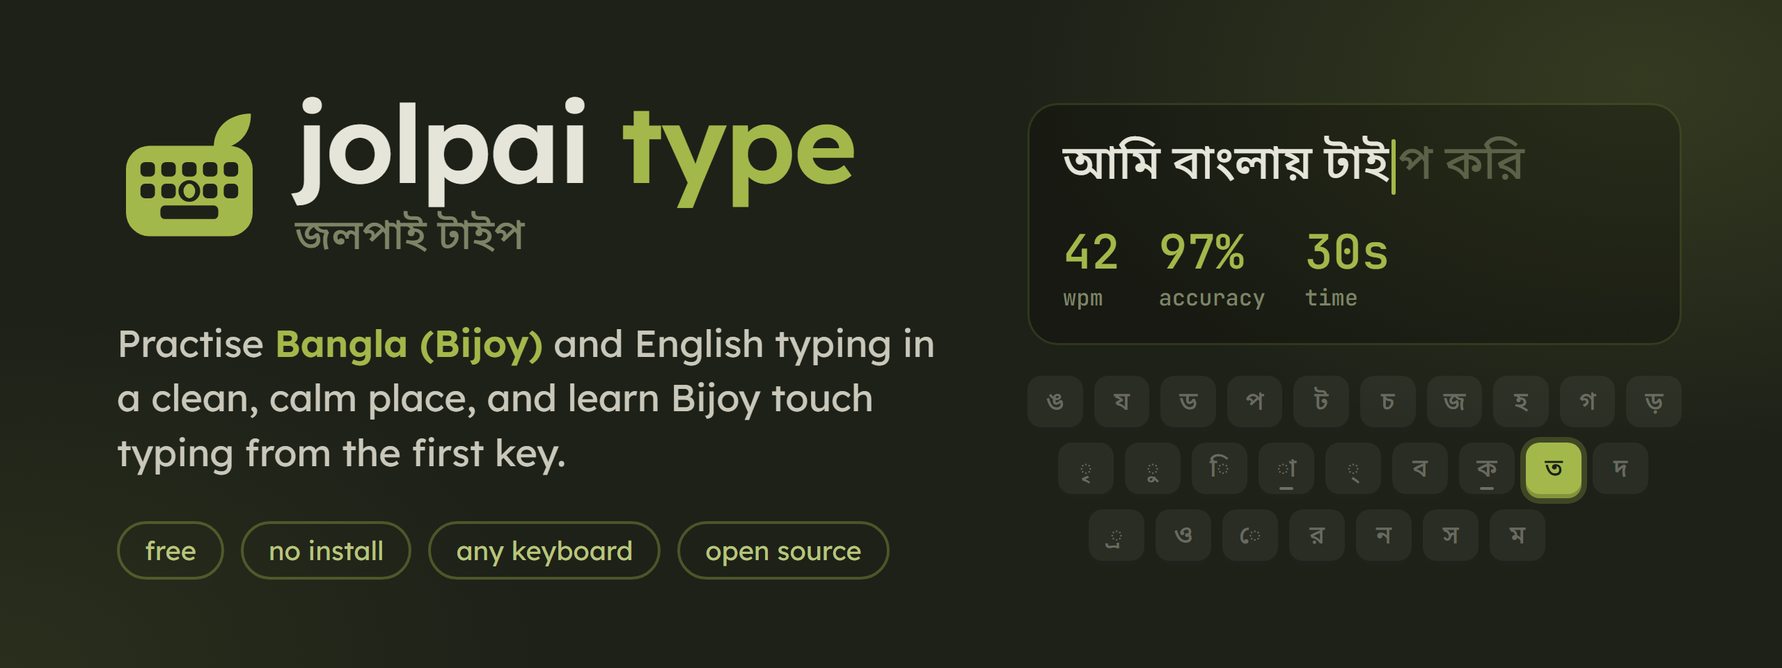
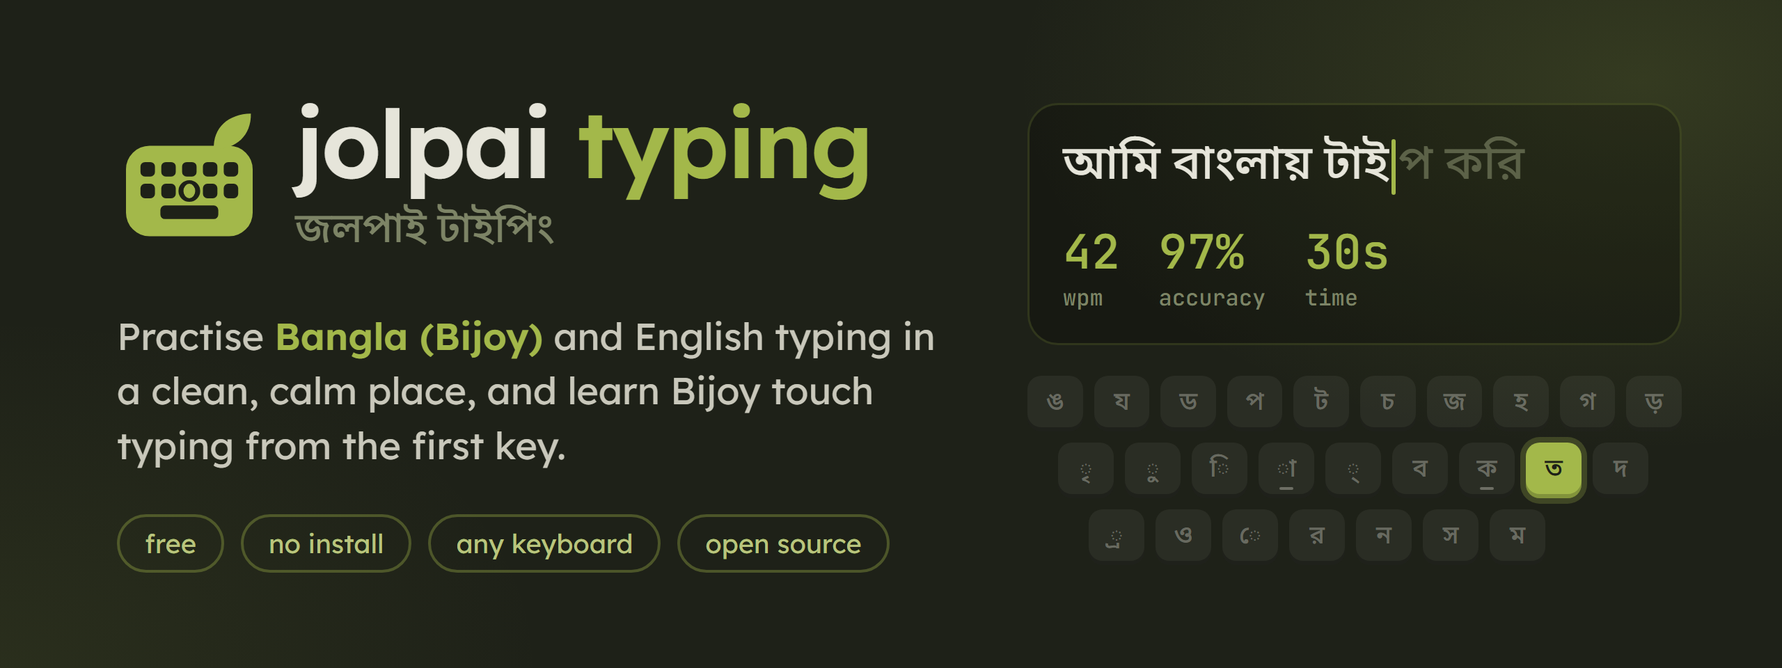
Rename to Jolpai Typing (জলপাই টাইপিং), now at /jolpai-typing/
The name changes everywhere it is shown: header wordmark, page title
and meta tags, About page, share card, README, banner and social
preview image. Links and canonical URLs move to
yeamin-talukder.github.io/jolpai-typing/ and the jolpai-typing repo.
The old name stays as an alternate name in the structured data.

Browser storage keys and the Firebase project id are unchanged, so
saved results and sign-in keep working. A smaller wordmark on narrow
phones keeps the header menu on screen.

diff --git a/index.html b/index.html
@@ -3,34 +3,34 @@
   <head>
     <meta charset="UTF-8" />
     <meta name="viewport" content="width=device-width, initial-scale=1.0" />
-    <title>Jolpai Type: Bangla (Bijoy) Typing Practice and Lessons | বাংলা টাইপিং</title>
+    <title>Jolpai Typing: Learn and Practise Bangla (Bijoy) Typing | বাংলা টাইপিং</title>
     <meta name="description" content="Free Bangla typing practice with the Bijoy layout on any keyboard, English typing tests, and a step-by-step course to learn Bijoy touch typing. বিজয় কি-বোর্ডে বাংলা টাইপিং শিখুন।" />
     <meta name="keywords" content="bangla typing practice, bijoy typing test, bijoy typing tutor, learn bijoy keyboard, bangla typing test, bengali typing, english typing test, বাংলা টাইপিং, বিজয় টাইপিং, বাংলা টাইপিং শিখুন" />
     <meta name="author" content="Md Yeamin Talukder" />
     <meta name="robots" content="index, follow, max-image-preview:large" />
-    <link rel="canonical" href="https://yeamin-talukder.github.io/jolpai-type/" />
+    <link rel="canonical" href="https://yeamin-talukder.github.io/jolpai-typing/" />
     <meta name="theme-color" content="#1e2118" />
     <link rel="icon" href="/favicon.svg" type="image/svg+xml" />
     <link rel="manifest" href="/site.webmanifest" />
 
     <!-- shared links: Open Graph (Facebook, WhatsApp, LinkedIn, Discord) and X / Twitter -->
     <meta property="og:type" content="website" />
-    <meta property="og:site_name" content="Jolpai Type" />
-    <meta property="og:title" content="Jolpai Type: practise Bangla (Bijoy) typing and learn Bijoy" />
+    <meta property="og:site_name" content="Jolpai Typing" />
+    <meta property="og:title" content="Jolpai Typing: practise Bangla (Bijoy) typing and learn Bijoy" />
     <meta property="og:description" content="A clean, calm place to practise Bangla (Bijoy) and English typing on any keyboard, with a step-by-step course to learn Bijoy touch typing. Free. বাংলা টাইপিং শিখুন।" />
-    <meta property="og:url" content="https://yeamin-talukder.github.io/jolpai-type/" />
-    <meta property="og:image" content="https://yeamin-talukder.github.io/jolpai-type/og-image.png" />
+    <meta property="og:url" content="https://yeamin-talukder.github.io/jolpai-typing/" />
+    <meta property="og:image" content="https://yeamin-talukder.github.io/jolpai-typing/og-image.png" />
     <meta property="og:image:type" content="image/png" />
     <meta property="og:image:width" content="1200" />
     <meta property="og:image:height" content="630" />
-    <meta property="og:image:alt" content="Jolpai Type: practise Bangla (Bijoy) and English typing, and learn Bijoy touch typing." />
+    <meta property="og:image:alt" content="Jolpai Typing: practise Bangla (Bijoy) and English typing, and learn Bijoy touch typing." />
     <meta property="og:locale" content="en_US" />
     <meta property="og:locale:alternate" content="bn_BD" />
     <meta name="twitter:card" content="summary_large_image" />
-    <meta name="twitter:title" content="Jolpai Type: practise Bangla (Bijoy) typing and learn Bijoy" />
+    <meta name="twitter:title" content="Jolpai Typing: practise Bangla (Bijoy) typing and learn Bijoy" />
     <meta name="twitter:description" content="Practise Bangla (Bijoy) and English typing on any keyboard, and learn Bijoy touch typing step by step. Free." />
-    <meta name="twitter:image" content="https://yeamin-talukder.github.io/jolpai-type/og-image.png" />
-    <meta name="twitter:image:alt" content="Jolpai Type: practise Bangla (Bijoy) and English typing, and learn Bijoy touch typing." />
+    <meta name="twitter:image" content="https://yeamin-talukder.github.io/jolpai-typing/og-image.png" />
+    <meta name="twitter:image:alt" content="Jolpai Typing: practise Bangla (Bijoy) and English typing, and learn Bijoy touch typing." />
 
     <script type="application/ld+json">
       {
@@ -38,19 +38,19 @@
         "@graph": [
           {
             "@type": "WebSite",
-            "@id": "https://yeamin-talukder.github.io/jolpai-type/#website",
-            "url": "https://yeamin-talukder.github.io/jolpai-type/",
-            "name": "Jolpai Type",
-            "alternateName": ["জলপাই টাইপ", "Jolpai Type Bangla typing"],
+            "@id": "https://yeamin-talukder.github.io/jolpai-typing/#website",
+            "url": "https://yeamin-talukder.github.io/jolpai-typing/",
+            "name": "Jolpai Typing",
+            "alternateName": ["জলপাই টাইপিং", "Jolpai Type", "জলপাই টাইপ"],
             "inLanguage": ["en", "bn"],
             "publisher": { "@id": "https://github.com/Yeamin-Talukder#person" }
           },
           {
             "@type": "WebApplication",
-            "@id": "https://yeamin-talukder.github.io/jolpai-type/#app",
-            "name": "Jolpai Type",
-            "alternateName": "জলপাই টাইপ",
-            "url": "https://yeamin-talukder.github.io/jolpai-type/",
+            "@id": "https://yeamin-talukder.github.io/jolpai-typing/#app",
+            "name": "Jolpai Typing",
+            "alternateName": ["জলপাই টাইপিং", "Jolpai Type"],
+            "url": "https://yeamin-talukder.github.io/jolpai-typing/",
             "description": "Free Bangla (Bijoy) and English typing practice in the browser, with a step-by-step course to learn Bijoy touch typing. Bijoy keys are converted to Bangla Unicode by the site itself, so no Bijoy software is needed. বিজয় কি-বোর্ডে বাংলা টাইপিং অনুশীলন করুন এবং ধাপে ধাপে বিজয় টাচ টাইপিং শিখুন।",
             "applicationCategory": "EducationalApplication",
             "applicationSubCategory": "Typing tutor",
@@ -59,8 +59,8 @@
             "inLanguage": ["bn", "en"],
             "isAccessibleForFree": true,
             "offers": { "@type": "Offer", "price": "0", "priceCurrency": "USD" },
-            "image": "https://yeamin-talukder.github.io/jolpai-type/og-image.png",
-            "screenshot": "https://yeamin-talukder.github.io/jolpai-type/og-image.png",
+            "image": "https://yeamin-talukder.github.io/jolpai-typing/og-image.png",
+            "screenshot": "https://yeamin-talukder.github.io/jolpai-typing/og-image.png",
             "featureList": [
               "Bangla typing practice with the Bijoy layout on any keyboard",
               "English typing test",
@@ -72,7 +72,7 @@
             ],
             "keywords": "bangla typing practice, bijoy typing test, learn bijoy keyboard, বাংলা টাইপিং, বিজয় টাইপিং",
             "author": { "@id": "https://github.com/Yeamin-Talukder#person" },
-            "isPartOf": { "@id": "https://yeamin-talukder.github.io/jolpai-type/#website" }
+            "isPartOf": { "@id": "https://yeamin-talukder.github.io/jolpai-typing/#website" }
           },
           {
             "@type": "Person",
@@ -95,9 +95,9 @@
   <body>
     <div id="app">
       <header class="top">
-        <a class="brand" href="./" aria-label="Jolpai Type home">
+        <a class="brand" href="./" aria-label="Jolpai Typing home">
           <svg class="logo" viewBox="0 0 32 32" fill="currentColor" aria-hidden="true"><path class="lg-board" fill-rule="evenodd" d="M7.2 9H24.8A5.2 5.2 0 0 1 30 14.2V23.8A5.2 5.2 0 0 1 24.8 29H7.2A5.2 5.2 0 0 1 2 23.8V14.2A5.2 5.2 0 0 1 7.2 9ZM6.2 12.6H7.4A1 1 0 0 1 8.4 13.6V14.8A1 1 0 0 1 7.4 15.8H6.2A1 1 0 0 1 5.2 14.8V13.6A1 1 0 0 1 6.2 12.6ZM10.8 12.6H12A1 1 0 0 1 13 13.6V14.8A1 1 0 0 1 12 15.8H10.8A1 1 0 0 1 9.8 14.8V13.6A1 1 0 0 1 10.8 12.6ZM15.4 12.6H16.6A1 1 0 0 1 17.6 13.6V14.8A1 1 0 0 1 16.6 15.8H15.4A1 1 0 0 1 14.4 14.8V13.6A1 1 0 0 1 15.4 12.6ZM20 12.6H21.2A1 1 0 0 1 22.2 13.6V14.8A1 1 0 0 1 21.2 15.8H20A1 1 0 0 1 19 14.8V13.6A1 1 0 0 1 20 12.6ZM24.6 12.6H25.8A1 1 0 0 1 26.8 13.6V14.8A1 1 0 0 1 25.8 15.8H24.6A1 1 0 0 1 23.6 14.8V13.6A1 1 0 0 1 24.6 12.6ZM6.2 17.4H7.4A1 1 0 0 1 8.4 18.4V19.6A1 1 0 0 1 7.4 20.6H6.2A1 1 0 0 1 5.2 19.6V18.4A1 1 0 0 1 6.2 17.4ZM10.8 17.4H12A1 1 0 0 1 13 18.4V19.6A1 1 0 0 1 12 20.6H10.8A1 1 0 0 1 9.8 19.6V18.4A1 1 0 0 1 10.8 17.4ZM20 17.4H21.2A1 1 0 0 1 22.2 18.4V19.6A1 1 0 0 1 21.2 20.6H20A1 1 0 0 1 19 19.6V18.4A1 1 0 0 1 20 17.4ZM24.6 17.4H25.8A1 1 0 0 1 26.8 18.4V19.6A1 1 0 0 1 25.8 20.6H24.6A1 1 0 0 1 23.6 19.6V18.4A1 1 0 0 1 24.6 17.4ZM10.6 22.2H21.4A1 1 0 0 1 22.4 23.2V24.2A1 1 0 0 1 21.4 25.2H10.6A1 1 0 0 1 9.6 24.2V23.2A1 1 0 0 1 10.6 22.2ZM13.6 19A2.4 2.4 0 1 0 18.4 19A2.4 2.4 0 1 0 13.6 19Z"/><g class="lg-taps"><rect class="lg-tap" style="--k:7" x="5.7" y="13.1" width="2.2" height="2.2" rx=".6" opacity="0"/><rect class="lg-tap" style="--k:0" x="10.3" y="13.1" width="2.2" height="2.2" rx=".6" opacity="0"/><rect class="lg-tap" style="--k:9" x="14.9" y="13.1" width="2.2" height="2.2" rx=".6" opacity="0"/><rect class="lg-tap" style="--k:2" x="19.5" y="13.1" width="2.2" height="2.2" rx=".6" opacity="0"/><rect class="lg-tap" style="--k:5" x="24.1" y="13.1" width="2.2" height="2.2" rx=".6" opacity="0"/><rect class="lg-tap" style="--k:4" x="5.7" y="17.9" width="2.2" height="2.2" rx=".6" opacity="0"/><rect class="lg-tap" style="--k:6" x="10.3" y="17.9" width="2.2" height="2.2" rx=".6" opacity="0"/><rect class="lg-tap" style="--k:1" x="19.5" y="17.9" width="2.2" height="2.2" rx=".6" opacity="0"/><rect class="lg-tap" style="--k:8" x="24.1" y="17.9" width="2.2" height="2.2" rx=".6" opacity="0"/><rect class="lg-tap" style="--k:3" x="10.1" y="22.7" width="11.8" height="2" rx=".6" opacity="0"/></g><path class="lg-olive" d="M14.7 19A1.3 1.6 0 1 0 17.3 19A1.3 1.6 0 1 0 14.7 19Z"/><path class="lg-leaf" d="M21.4 9.8C21.2 5 24.6 2 29.6 1.9C29.7 6.7 26.4 9.8 21.4 9.8Z"/></svg>
-          <span class="brand-text"><span class="brand-sub">জলপাই</span>jolpai<span class="brand-type">type</span></span>
+          <span class="brand-text"><span class="brand-sub">জলপাই</span>jolpai<span class="brand-type">typing</span></span>
         </a>
         <nav class="nav" aria-label="Main">
           <div id="account" class="account" hidden></div>
@@ -133,7 +133,7 @@
             <div id="caret" class="caret"></div>
             <div id="focus-hint" class="focus-hint"><span><i data-icon="pointer"></i>click here or press any key to focus</span></div>
           </div>
-          <p id="lang-hint" class="lang-hint" hidden><i data-icon="info" data-size="14"></i>Bijoy layout: type with your keys as if Bijoy were on. Turn off Bijoy or Avro software first, Jolpai Type converts the keys itself.</p>
+          <p id="lang-hint" class="lang-hint" hidden><i data-icon="info" data-size="14"></i>Bijoy layout: type with your keys as if Bijoy were on. Turn off Bijoy or Avro software first, Jolpai Typing converts the keys itself.</p>
           <div id="keyboard" class="keyboard" aria-hidden="true"></div>
           <input id="input" class="hidden-input" autocomplete="off" autocapitalize="off" autocorrect="off" spellcheck="false" aria-label="Typing input" />
           <button id="restart" class="restart" aria-label="Restart test" data-tip="restart test · tab + enter"><i data-icon="restart" data-size="20"></i>
@@ -164,12 +164,12 @@
         </section>
         <section id="history" class="history" hidden aria-label="Profile"></section>
         <section id="settings" class="settings" hidden aria-label="Settings"></section>
-        <section id="about" class="about" hidden aria-label="About Jolpai Type"></section>
+        <section id="about" class="about" hidden aria-label="About Jolpai Typing"></section>
         <section id="learn" class="learn" hidden aria-label="Learn Bijoy touch typing"></section>
       </main>
 
       <div class="corner corner-left">
-        <button id="nav-about" data-tip="about Jolpai Type" aria-label="About Jolpai Type"><i data-icon="info" data-size="19"></i></button>
+        <button id="nav-about" data-tip="about Jolpai Typing" aria-label="About Jolpai Typing"><i data-icon="info" data-size="19"></i></button>
       </div>
       <div id="corner" class="corner" role="group" aria-label="Quick settings">
         <div id="theme-menu" class="theme-menu" hidden>
@@ -182,14 +182,14 @@
 
       <footer class="bottom">
         <div class="keys"><kbd>tab</kbd> + <kbd>enter</kbd> restart <span class="dot">·</span> <kbd>esc</kbd> restart</div>
-        <div class="mobile-note">Jolpai Type works best on a computer with a keyboard. On your phone, try Jolpai Keyboard.</div>
+        <div class="mobile-note">Jolpai Typing works best on a computer with a keyboard. On your phone, try Jolpai Keyboard.</div>
       </footer>
     </div>
     <noscript>
       <div style="max-width: 680px; margin: 24px auto; padding: 0 20px; line-height: 1.6;">
-        <h1>Jolpai Type: Bangla (Bijoy) and English typing practice</h1>
-        <p>Jolpai Type is a free, clean and calm place to practise Bangla typing with the Bijoy layout on any keyboard, practise English typing, and learn Bijoy touch typing step by step. No Bijoy or Avro software is needed: the site converts your Bijoy keys to Bangla itself.</p>
-        <p lang="bn">জলপাই টাইপ: বিজয় কি-বোর্ডে বাংলা টাইপিং অনুশীলন করুন, ইংরেজি টাইপিংও। ধাপে ধাপে বিজয় টাচ টাইপিং শিখুন। বিনামূল্যে, কোনো সফটওয়্যার ইনস্টল করতে হয় না।</p>
+        <h1>Jolpai Typing: Bangla (Bijoy) and English typing practice</h1>
+        <p>Jolpai Typing is a free, clean and calm place to practise Bangla typing with the Bijoy layout on any keyboard, practise English typing, and learn Bijoy touch typing step by step. No Bijoy or Avro software is needed: the site converts your Bijoy keys to Bangla itself.</p>
+        <p lang="bn">জলপাই টাইপিং: বিজয় কি-বোর্ডে বাংলা টাইপিং অনুশীলন করুন, ইংরেজি টাইপিংও। ধাপে ধাপে বিজয় টাচ টাইপিং শিখুন। বিনামূল্যে, কোনো সফটওয়্যার ইনস্টল করতে হয় না।</p>
         <ul>
           <li>Bangla (Bijoy) and English typing tests: time, words, passage and custom text</li>
           <li>A step-by-step course to learn Bijoy touch typing, with the finger for every key</li>

diff --git a/src/icons.ts b/src/icons.ts
@@ -1,4 +1,4 @@
-// Line icons drawn for Jolpai Type: 24px grid, 2px rounded strokes in the
+// Line icons drawn for Jolpai Typing: 24px grid, 2px rounded strokes in the
 // current text colour, so they follow every theme.
 
 const PATHS = {
@@ -56,7 +56,7 @@ const PATHS = {
 
 export type IconName = keyof typeof PATHS;
 
-/** The Jolpai Type mark: a keyboard with its keys cut out, an olive for the lit key, and a jolpai leaf. */
+/** The Jolpai Typing mark: a keyboard with its keys cut out, an olive for the lit key, and a jolpai leaf. */
 const LOGO_INNER = '<path class="lg-board" fill-rule="evenodd" d="M7.2 9H24.8A5.2 5.2 0 0 1 30 14.2V23.8A5.2 5.2 0 0 1 24.8 29H7.2A5.2 5.2 0 0 1 2 23.8V14.2A5.2 5.2 0 0 1 7.2 9ZM6.2 12.6H7.4A1 1 0 0 1 8.4 13.6V14.8A1 1 0 0 1 7.4 15.8H6.2A1 1 0 0 1 5.2 14.8V13.6A1 1 0 0 1 6.2 12.6ZM10.8 12.6H12A1 1 0 0 1 13 13.6V14.8A1 1 0 0 1 12 15.8H10.8A1 1 0 0 1 9.8 14.8V13.6A1 1 0 0 1 10.8 12.6ZM15.4 12.6H16.6A1 1 0 0 1 17.6 13.6V14.8A1 1 0 0 1 16.6 15.8H15.4A1 1 0 0 1 14.4 14.8V13.6A1 1 0 0 1 15.4 12.6ZM20 12.6H21.2A1 1 0 0 1 22.2 13.6V14.8A1 1 0 0 1 21.2 15.8H20A1 1 0 0 1 19 14.8V13.6A1 1 0 0 1 20 12.6ZM24.6 12.6H25.8A1 1 0 0 1 26.8 13.6V14.8A1 1 0 0 1 25.8 15.8H24.6A1 1 0 0 1 23.6 14.8V13.6A1 1 0 0 1 24.6 12.6ZM6.2 17.4H7.4A1 1 0 0 1 8.4 18.4V19.6A1 1 0 0 1 7.4 20.6H6.2A1 1 0 0 1 5.2 19.6V18.4A1 1 0 0 1 6.2 17.4ZM10.8 17.4H12A1 1 0 0 1 13 18.4V19.6A1 1 0 0 1 12 20.6H10.8A1 1 0 0 1 9.8 19.6V18.4A1 1 0 0 1 10.8 17.4ZM20 17.4H21.2A1 1 0 0 1 22.2 18.4V19.6A1 1 0 0 1 21.2 20.6H20A1 1 0 0 1 19 19.6V18.4A1 1 0 0 1 20 17.4ZM24.6 17.4H25.8A1 1 0 0 1 26.8 18.4V19.6A1 1 0 0 1 25.8 20.6H24.6A1 1 0 0 1 23.6 19.6V18.4A1 1 0 0 1 24.6 17.4ZM10.6 22.2H21.4A1 1 0 0 1 22.4 23.2V24.2A1 1 0 0 1 21.4 25.2H10.6A1 1 0 0 1 9.6 24.2V23.2A1 1 0 0 1 10.6 22.2ZM13.6 19A2.4 2.4 0 1 0 18.4 19A2.4 2.4 0 1 0 13.6 19Z"/><g class="lg-taps"><rect class="lg-tap" style="--k:7" x="5.7" y="13.1" width="2.2" height="2.2" rx=".6" opacity="0"/><rect class="lg-tap" style="--k:0" x="10.3" y="13.1" width="2.2" height="2.2" rx=".6" opacity="0"/><rect class="lg-tap" style="--k:9" x="14.9" y="13.1" width="2.2" height="2.2" rx=".6" opacity="0"/><rect class="lg-tap" style="--k:2" x="19.5" y="13.1" width="2.2" height="2.2" rx=".6" opacity="0"/><rect class="lg-tap" style="--k:5" x="24.1" y="13.1" width="2.2" height="2.2" rx=".6" opacity="0"/><rect class="lg-tap" style="--k:4" x="5.7" y="17.9" width="2.2" height="2.2" rx=".6" opacity="0"/><rect class="lg-tap" style="--k:6" x="10.3" y="17.9" width="2.2" height="2.2" rx=".6" opacity="0"/><rect class="lg-tap" style="--k:1" x="19.5" y="17.9" width="2.2" height="2.2" rx=".6" opacity="0"/><rect class="lg-tap" style="--k:8" x="24.1" y="17.9" width="2.2" height="2.2" rx=".6" opacity="0"/><rect class="lg-tap" style="--k:3" x="10.1" y="22.7" width="11.8" height="2" rx=".6" opacity="0"/></g><path class="lg-olive" d="M14.7 19A1.3 1.6 0 1 0 17.3 19A1.3 1.6 0 1 0 14.7 19Z"/><path class="lg-leaf" d="M21.4 9.8C21.2 5 24.6 2 29.6 1.9C29.7 6.7 26.4 9.8 21.4 9.8Z"/>';
 export const logo = (cls = 'logo') => `<svg class="${cls}" viewBox="0 0 32 32" fill="currentColor" aria-hidden="true">${LOGO_INNER}</svg>`;
 

diff --git a/src/about.ts b/src/about.ts
@@ -1,4 +1,4 @@
-// The About page: why Jolpai Type exists, what it can do, who made it, and
+// The About page: why Jolpai Typing exists, what it can do, who made it, and
 // where the code lives. Numbers on the page come from the code itself, so
 // they stay right as the site grows.
 import { unicodeToSegments } from './bijoy';
@@ -6,7 +6,7 @@ import { countUp, icon, logo, type IconName } from './icons';
 import { LESSONS, UNITS } from './learn/course';
 import { THEMES } from './themes';
 
-const REPO = 'Yeamin-Talukder/jolpai-type';
+const REPO = 'Yeamin-Talukder/jolpai-typing';
 const REPO_URL = `https://github.com/${REPO}`;
 const AUTHOR = 'Md Yeamin Talukder';
 const AUTHOR_URL = 'https://github.com/Yeamin-Talukder';
@@ -48,7 +48,7 @@ export function renderAbout(el: HTMLElement, go: (v: AboutGo) => void) {
         ${logo('ab-logo')}
         <div class="ab-hero-text">
           <span class="ab-eyebrow">${icon('info', 14)}about</span>
-          <h1>Jolpai Type <span class="ab-bn">জলপাই টাইপ</span></h1>
+          <h1>Jolpai Typing <span class="ab-bn">জলপাই টাইপিং</span></h1>
           <p class="ab-tag">Practise <b>Bangla (Bijoy)</b> and <b>English</b> typing in a clean, calm place, and learn Bijoy touch typing from the very first key. Free.</p>
           <div class="ab-cta">
             <button class="btn primary" data-go="test">${icon('keyboard', 16)}start typing</button>
@@ -73,7 +73,7 @@ export function renderAbout(el: HTMLElement, go: (v: AboutGo) => void) {
       <div class="ab-why-body">
         <p>There was no good place to practise <b>Bangla typing</b>. English has polished, modern typing sites, but people who
           type Bangla were left with old, cluttered pages that are hard to enjoy.</p>
-        <p>Jolpai Type gives Bangla typing a <b>good environment</b>: a clean, distraction-free typing test with a better design,
+        <p>Jolpai Typing gives Bangla typing a <b>good environment</b>: a clean, distraction-free typing test with a better design,
           and a course that teaches <b>Bijoy</b> touch typing step by step. English is here too.</p>
       </div>
     </section>
@@ -112,7 +112,7 @@ export function renderAbout(el: HTMLElement, go: (v: AboutGo) => void) {
 
       <section class="ab-card ab-repo">
         <h2><span class="ab-h-ico">${GITHUB}</span>open source</h2>
-        <p>Jolpai Type is free and open source. If it helps you practise, please <b>give it a star on GitHub</b>: it helps other
+        <p>Jolpai Typing is free and open source. If it helps you practise, please <b>give it a star on GitHub</b>: it helps other
           Bangla typists find it.</p>
         <div class="ab-stats" aria-live="polite">
           <span class="ab-stat">${STAR}<b id="ab-stars">–</b> stars</span>

diff --git a/scripts/readme-banner.html b/scripts/readme-banner.html
@@ -23,7 +23,7 @@
   .left { position: absolute; left: 84px; top: 0; bottom: 0; width: 600px; display: flex; flex-direction: column; justify-content: center; }
   .brand { display: flex; align-items: center; gap: 24px; }
   .brand svg { width: 104px; height: 104px; color: #a3b84a; flex: none; }
-  .name { font-size: 78px; font-weight: 600; color: #e6e5da; letter-spacing: -1.5px; line-height: 1; }
+  .name { font-size: 68px; font-weight: 600; color: #e6e5da; letter-spacing: -1.5px; line-height: 1; }
   .name b { color: #a3b84a; font-weight: 600; }
   .bn-name { font-family: 'Noto Sans Bengali', 'Nirmala UI', sans-serif; font-size: 30px; color: #7d8466; margin-top: 10px; }
   .tag { margin-top: 36px; font-size: 27px; line-height: 1.45; color: #c9c8bb; }
@@ -52,8 +52,8 @@
     <div class="brand">
       <svg viewBox="0 0 32 32" fill="currentColor" aria-hidden="true"><path class="lg-board" fill-rule="evenodd" d="M7.2 9H24.8A5.2 5.2 0 0 1 30 14.2V23.8A5.2 5.2 0 0 1 24.8 29H7.2A5.2 5.2 0 0 1 2 23.8V14.2A5.2 5.2 0 0 1 7.2 9ZM6.2 12.6H7.4A1 1 0 0 1 8.4 13.6V14.8A1 1 0 0 1 7.4 15.8H6.2A1 1 0 0 1 5.2 14.8V13.6A1 1 0 0 1 6.2 12.6ZM10.8 12.6H12A1 1 0 0 1 13 13.6V14.8A1 1 0 0 1 12 15.8H10.8A1 1 0 0 1 9.8 14.8V13.6A1 1 0 0 1 10.8 12.6ZM15.4 12.6H16.6A1 1 0 0 1 17.6 13.6V14.8A1 1 0 0 1 16.6 15.8H15.4A1 1 0 0 1 14.4 14.8V13.6A1 1 0 0 1 15.4 12.6ZM20 12.6H21.2A1 1 0 0 1 22.2 13.6V14.8A1 1 0 0 1 21.2 15.8H20A1 1 0 0 1 19 14.8V13.6A1 1 0 0 1 20 12.6ZM24.6 12.6H25.8A1 1 0 0 1 26.8 13.6V14.8A1 1 0 0 1 25.8 15.8H24.6A1 1 0 0 1 23.6 14.8V13.6A1 1 0 0 1 24.6 12.6ZM6.2 17.4H7.4A1 1 0 0 1 8.4 18.4V19.6A1 1 0 0 1 7.4 20.6H6.2A1 1 0 0 1 5.2 19.6V18.4A1 1 0 0 1 6.2 17.4ZM10.8 17.4H12A1 1 0 0 1 13 18.4V19.6A1 1 0 0 1 12 20.6H10.8A1 1 0 0 1 9.8 19.6V18.4A1 1 0 0 1 10.8 17.4ZM20 17.4H21.2A1 1 0 0 1 22.2 18.4V19.6A1 1 0 0 1 21.2 20.6H20A1 1 0 0 1 19 19.6V18.4A1 1 0 0 1 20 17.4ZM24.6 17.4H25.8A1 1 0 0 1 26.8 18.4V19.6A1 1 0 0 1 25.8 20.6H24.6A1 1 0 0 1 23.6 19.6V18.4A1 1 0 0 1 24.6 17.4ZM10.6 22.2H21.4A1 1 0 0 1 22.4 23.2V24.2A1 1 0 0 1 21.4 25.2H10.6A1 1 0 0 1 9.6 24.2V23.2A1 1 0 0 1 10.6 22.2ZM13.6 19A2.4 2.4 0 1 0 18.4 19A2.4 2.4 0 1 0 13.6 19Z"/><path class="lg-olive" d="M14.7 19A1.3 1.6 0 1 0 17.3 19A1.3 1.6 0 1 0 14.7 19Z"/><path class="lg-leaf" d="M21.4 9.8C21.2 5 24.6 2 29.6 1.9C29.7 6.7 26.4 9.8 21.4 9.8Z"/></svg>
       <div>
-        <div class="name">jolpai <b>type</b></div>
-        <div class="bn-name">জলপাই টাইপ</div>
+        <div class="name">jolpai <b>typing</b></div>
+        <div class="bn-name">জলপাই টাইপিং</div>
       </div>
     </div>
     <p class="tag">Practise <b>Bangla (Bijoy)</b> and English typing in a clean, calm place, and learn Bijoy touch typing from the first key.</p>

diff --git a/scripts/og-image.html b/scripts/og-image.html
@@ -60,8 +60,8 @@
     <div class="brand">
       <svg viewBox="0 0 32 32" fill="currentColor" aria-hidden="true"><path class="lg-board" fill-rule="evenodd" d="M7.2 9H24.8A5.2 5.2 0 0 1 30 14.2V23.8A5.2 5.2 0 0 1 24.8 29H7.2A5.2 5.2 0 0 1 2 23.8V14.2A5.2 5.2 0 0 1 7.2 9ZM6.2 12.6H7.4A1 1 0 0 1 8.4 13.6V14.8A1 1 0 0 1 7.4 15.8H6.2A1 1 0 0 1 5.2 14.8V13.6A1 1 0 0 1 6.2 12.6ZM10.8 12.6H12A1 1 0 0 1 13 13.6V14.8A1 1 0 0 1 12 15.8H10.8A1 1 0 0 1 9.8 14.8V13.6A1 1 0 0 1 10.8 12.6ZM15.4 12.6H16.6A1 1 0 0 1 17.6 13.6V14.8A1 1 0 0 1 16.6 15.8H15.4A1 1 0 0 1 14.4 14.8V13.6A1 1 0 0 1 15.4 12.6ZM20 12.6H21.2A1 1 0 0 1 22.2 13.6V14.8A1 1 0 0 1 21.2 15.8H20A1 1 0 0 1 19 14.8V13.6A1 1 0 0 1 20 12.6ZM24.6 12.6H25.8A1 1 0 0 1 26.8 13.6V14.8A1 1 0 0 1 25.8 15.8H24.6A1 1 0 0 1 23.6 14.8V13.6A1 1 0 0 1 24.6 12.6ZM6.2 17.4H7.4A1 1 0 0 1 8.4 18.4V19.6A1 1 0 0 1 7.4 20.6H6.2A1 1 0 0 1 5.2 19.6V18.4A1 1 0 0 1 6.2 17.4ZM10.8 17.4H12A1 1 0 0 1 13 18.4V19.6A1 1 0 0 1 12 20.6H10.8A1 1 0 0 1 9.8 19.6V18.4A1 1 0 0 1 10.8 17.4ZM20 17.4H21.2A1 1 0 0 1 22.2 18.4V19.6A1 1 0 0 1 21.2 20.6H20A1 1 0 0 1 19 19.6V18.4A1 1 0 0 1 20 17.4ZM24.6 17.4H25.8A1 1 0 0 1 26.8 18.4V19.6A1 1 0 0 1 25.8 20.6H24.6A1 1 0 0 1 23.6 19.6V18.4A1 1 0 0 1 24.6 17.4ZM10.6 22.2H21.4A1 1 0 0 1 22.4 23.2V24.2A1 1 0 0 1 21.4 25.2H10.6A1 1 0 0 1 9.6 24.2V23.2A1 1 0 0 1 10.6 22.2ZM13.6 19A2.4 2.4 0 1 0 18.4 19A2.4 2.4 0 1 0 13.6 19Z"/><path class="lg-olive" d="M14.7 19A1.3 1.6 0 1 0 17.3 19A1.3 1.6 0 1 0 14.7 19Z"/><path class="lg-leaf" d="M21.4 9.8C21.2 5 24.6 2 29.6 1.9C29.7 6.7 26.4 9.8 21.4 9.8Z"/></svg>
       <div>
-        <div class="name">Jolpai Type</div>
-        <div class="bn-name">জলপাই টাইপ</div>
+        <div class="name">Jolpai Typing</div>
+        <div class="bn-name">জলপাই টাইপিং</div>
       </div>
     </div>
     <h1>Practise <b>Bangla (Bijoy)</b> and English typing, and learn Bijoy touch typing.</h1>
@@ -69,7 +69,7 @@
   </div>
   <div class="foot">
     <div class="pills"><span>free</span><span>no install</span><span>any keyboard</span></div>
-    <div class="url">yeamin-talukder.github.io/jolpai-type</div>
+    <div class="url">yeamin-talukder.github.io/jolpai-typing</div>
   </div>
 </body>
 </html>

diff --git a/src/learn/course.ts b/src/learn/course.ts
@@ -62,7 +62,7 @@ const SPECS: Spec[] = [
     intro: [
       { title: 'Sit and rest your hands', text: 'Sit up straight, wrists relaxed and just above the keyboard. Your eight fingers rest on the middle row; your thumbs rest on the space bar. You will look at the screen, not at your hands.' },
       { title: 'Find the bumps', text: 'Feel the small bumps on F and J. Put your left index finger on F and your right index finger on J. From here every key is a short reach, so you never need to look down.' },
-      { title: 'Bangla with English keys', text: 'Bijoy puts Bangla letters on an ordinary keyboard. Jolpai Type turns your key presses into Bangla itself, so switch off any Bijoy or Avro software first. Press J then F and watch:', demo: 'jf' },
+      { title: 'Bangla with English keys', text: 'Bijoy puts Bangla letters on an ordinary keyboard. Jolpai Typing turns your key presses into Bangla itself, so switch off any Bijoy or Avro software first. Press J then F and watch:', demo: 'jf' },
     ] },
   { id: 'home-2', unit: 1, title: 'ত and দ', bn: 'ত দ', summary: 'Right middle and ring fingers: K is ত, L is দ.', newKeys: HOME_R, drill: 22, words: 12, goal: 8 },
   { id: 'home-3', unit: 1, title: 'Vowel signs ি ু ৃ', bn: 'ি ু ৃ', summary: 'Your left hand types the vowel signs. And ি comes first.', newKeys: HOME_L, drill: 24, words: 12, goal: 8,

diff --git a/src/share.ts b/src/share.ts
@@ -75,7 +75,7 @@ async function qrPng(qr: QR, caption: string): Promise<Blob> {
   g.fillText(caption, w / 2, w + 22);
   g.fillStyle = '#6b7353';
   g.font = '16px "Lexend Deca", system-ui, sans-serif';
-  g.fillText('Jolpai Type · Bangla & English typing', w / 2, w + 50);
+  g.fillText('Jolpai Typing · Bangla & English typing', w / 2, w + 50);
   return new Promise(res => cv.toBlob(b => res(b!), 'image/png'));
 }
 
@@ -164,14 +164,14 @@ export class SharePanel {
         break;
       }
       case 'share':
-        if (id) navigator.share({ title: `${this.act.name()} on Jolpai Type`, text: `See my Bangla and English typing stats on Jolpai Type`, url: shareLink(id) }).catch(() => { /* cancelled */ });
+        if (id) navigator.share({ title: `${this.act.name()} on Jolpai Typing`, text: `See my Bangla and English typing stats on Jolpai Typing`, url: shareLink(id) }).catch(() => { /* cancelled */ });
         break;
       case 'png':
         if (this.qr) {
           const blob = await qrPng(this.qr, `${this.act.name()}'s typing profile`);
           const a = document.createElement('a');
           a.href = URL.createObjectURL(blob);
-          a.download = 'jolpai-type-profile-qr.png';
+          a.download = 'jolpai-typing-profile-qr.png';
           a.click();
           setTimeout(() => URL.revokeObjectURL(a.href), 1000);
         }

diff --git a/src/profile.ts b/src/profile.ts
@@ -255,7 +255,7 @@ export function renderProfile(el: HTMLElement, view: ProfileView, user: ProfileU
     ${list.length > view.shown ? `<button id="h-more" class="btn more">show ${Math.min(25, list.length - view.shown)} more · ${list.length - view.shown} left</button>` : ''}`}
     ${shared ? `<div class="p-invite">
       <div><div class="p-invite-title">Practise typing like ${esc(shared.name.split(' ')[0])}</div>
-      <p>Jolpai Type is free typing practice for Bangla (Bijoy) and English, with a course to learn Bijoy touch typing.</p></div>
+      <p>Jolpai Typing is free typing practice for Bangla (Bijoy) and English, with a course to learn Bijoy touch typing.</p></div>
       <button id="p-start" class="btn primary">${icon('keyboard', 15)}start typing</button>
     </div>` : `<div class="h-foot">
       <span class="h-where">${icon(user ? 'cloud' : 'device', 14)}${user ? `Saved to your account (${esc(user.email || user.name)}), on every device you sign in on.` : 'Saved only in this browser. Sign in to keep your history on every device.'}</span>

diff --git a/src/passages.ts b/src/passages.ts
@@ -1,5 +1,5 @@
 // Practice passages: notices and general-knowledge paragraphs.
-// Original text written for Jolpai Type.
+// Original text written for Jolpai Typing.
 
 export const ENGLISH_PASSAGES: string[] = [
   `Bangla is the mother tongue of more than two hundred and thirty million people. In nineteen fifty two, students in Dhaka gave their lives so that Bangla would be honoured as a state language, and today the whole world remembers them on the twenty first of February, International Mother Language Day. Learning to type Bangla well is a small way to keep this language alive in the digital world. With a little practice every day, anyone can write letters, stories and messages in Bangla as easily as in English.`,

diff --git a/src/style.css b/src/style.css
@@ -1,4 +1,4 @@
-/* Jolpai Type: olive theme */
+/* Jolpai Typing: olive theme */
 :root {
   --bg: #1e2118;
   --sub-alt: #171a12;
@@ -2253,4 +2253,15 @@ body[data-view="learn"] main { padding-top: 0; }
 }
 @media (prefers-reduced-motion: reduce) {
   .p-avatar-wrap::before, .p-stat.lit .p-stat-ico .icon, .p-activity i.today, .h-empty-ico { animation: none; }
+}
+
+/* the longer name on narrow phones: a smaller wordmark so the menu fits */
+@media (max-width: 440px) {
+  .brand { gap: 7px; }
+  .brand .logo { width: 26px; height: 26px; }
+  .brand-text { font-size: 17px; letter-spacing: -.4px; }
+  .brand-sub { top: -11px; font-size: 9.5px; }
+}
+@media (max-width: 360px) {
+  .brand-text { font-size: 15px; }
 }

diff --git a/src/main.ts b/src/main.ts
@@ -968,7 +968,7 @@ async function openShared(id: string) {
     return;
   }
   sharedData = data;
-  document.title = `${data.name} · Jolpai Type`;
+  document.title = `${data.name} · Jolpai Typing`;
   // open on the language they type most
   const bn = data.results.filter(e => e.lang === 'bangla').length;
   profileView.lang = bn * 2 >= data.results.length && bn > 0 ? 'bangla' : 'english';

diff --git a/vite.config.ts b/vite.config.ts
@@ -1,7 +1,7 @@
 import { defineConfig } from 'vitest/config';
 
 // Relative base so the built site works from any folder, including a
-// GitHub Pages project URL like https://<user>.github.io/jolpai-type/
+// GitHub Pages project URL like https://<user>.github.io/jolpai-typing/
 export default defineConfig({
   base: './',
   test: {
